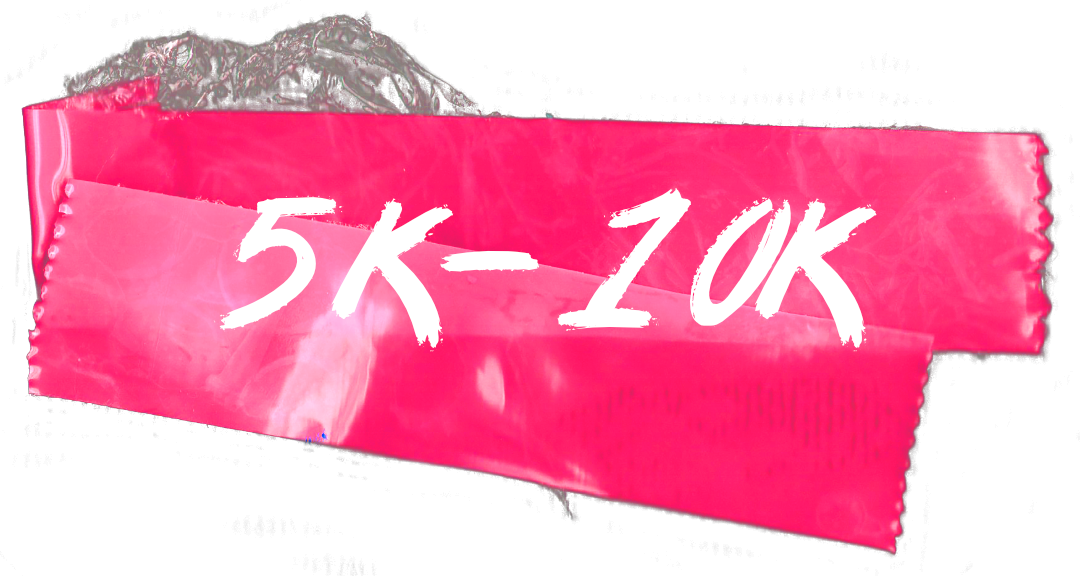
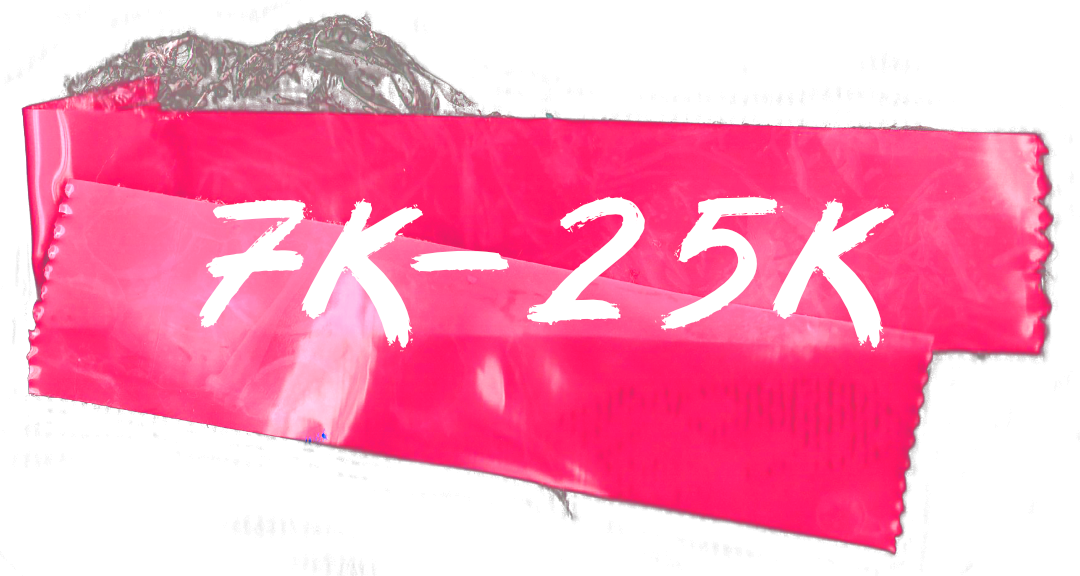
Pricing

Changed region(s): [[0.4583, 0.3125, 0.825, 0.625], [0.1833, 0.3438, 0.4278, 0.625]]

diff --git a/pricing-plan.html b/pricing-plan.html
@@ -193,13 +193,16 @@
                                                 <p>Revolutionary Branding</p>
                                             </li>
                                             <li><i class="icofont-check-circled"></i>
-                                                <p>High Quality Commercials </p>
+                                                <p>Scriptwriting</p>
                                             </li>
                                             <li><i class="icofont-check-circled"></i>
-                                                <p>Impress your Target Audience</p>
+                                                <p>Sound Design and Music</p>
                                             </li>
                                             <li><i class="icofont-check-circled"></i>
-                                                <p>Elevate your brand</p>
+                                                <p>Concept Development</p>
+                                            </li>
+                                            <li><i class="icofont-check-circled"></i>
+                                                <p>Digital Advertising Campaigns</p>
                                             </li>
                                             <li><i class="icofont-check-circled"></i>
                                                 <p>Impress Investors</p>
@@ -242,20 +245,21 @@
                                                 <p>Differentiate from competitors</p>
                                             </li>
                                             <li><i class="icofont-check-circled"></i>
-                                                <p>Enhance your brand image</p>
+                                                <p>Develop a Brand Strategy</p>
                                             </li>
                                             <li><i class="icofont-check-circled"></i>
                                                 <p>Expand your product line</p>
                                             </li>
                                             <li><i class="icofont-check-circled"></i>
-                                                <p>Innovative designs</p>
+                                                <p>Find your Brand Identity</p>
+                                            </li>
+                                            <li><i class="icofont-check-circled"></i>
+                                                <p>Marketing Materials</p>
                                             </li>
                                             <li><i class="icofont-check-circled"></i>
                                                 <p>Quality Assured</p>
                                             </li>
-                                            <li><i class="icofont-check-circled"></i>
-                                                <p>Visually appealing</p>
-                                            </li>
+                                           
                                             <li><i class="icofont-check-circled"></i>
                                                 <p>Prototype & test</p>
                                             </li>
@@ -297,13 +301,13 @@
                                                 <p>Nexus★Hue video discounts</p>
                                             </li>
                                             <li><i class="icofont-check-circled"></i>
-                                                <p>More Customization</p>
+                                                <p>More Personalization</p>
                                             </li>
                                             <li><i class="icofont-check-circled"></i>
                                                 <p>Unique design elements</p>
                                             </li>
                                             <li><i class="icofont-check-circled"></i>
-                                                <p>Hella Personality</p>
+                                                <p>Custom Website</p>
                                             </li>
                                             <li><i class="icofont-check-circled"></i>
                                                 <p>Long-term Cost Savings</p>

diff --git a/index.html b/index.html
@@ -303,13 +303,13 @@
                                         <img src="assets/images/work/01.gif" alt="work-img">
                                         <div class="step">
                                             <span>start</span>
-                                            <p>$999+</p>
+                                            <p>$2k+</p>
                                         </div>
                                     </div>
                                 </div>
                                 <div class="lab-content">
                                     <h4>Web Design</h4>
-                                    <p>Nexus★Hue pushes boundaries delivering practical and visually stunning websites. Starting at $999 for independant startups</p>
+                                    <p>Nexus★Hue pushes boundaries delivering practical and visually stunning websites. Starting at $2k</p>
                                 </div>
                             </div>
                         </div>
@@ -341,13 +341,13 @@
                                         <img src="assets/images/work/03.gif" alt="work-img">
                                         <div class="step">
                                             <span>start</span>
-                                            <p>2.7K+</p>
+                                            <p>7K+</p>
                                         </div>
                                     </div>
                                 </div>
                                 <div class="lab-content">
                                     <h4>Branding</h4>
-                                    <p>Project like a wine bottle complete with a logo, using 3D modeling to preview the final result. Projects start at 2.7k for startups.</p>
+                                    <p>Project like a wine brand with logo, brand identity, branding guidelines,Brand Strategy & preview the final result with 3d. Projects start at 5k</p>
                                 </div>
                             </div>
                         </div>
